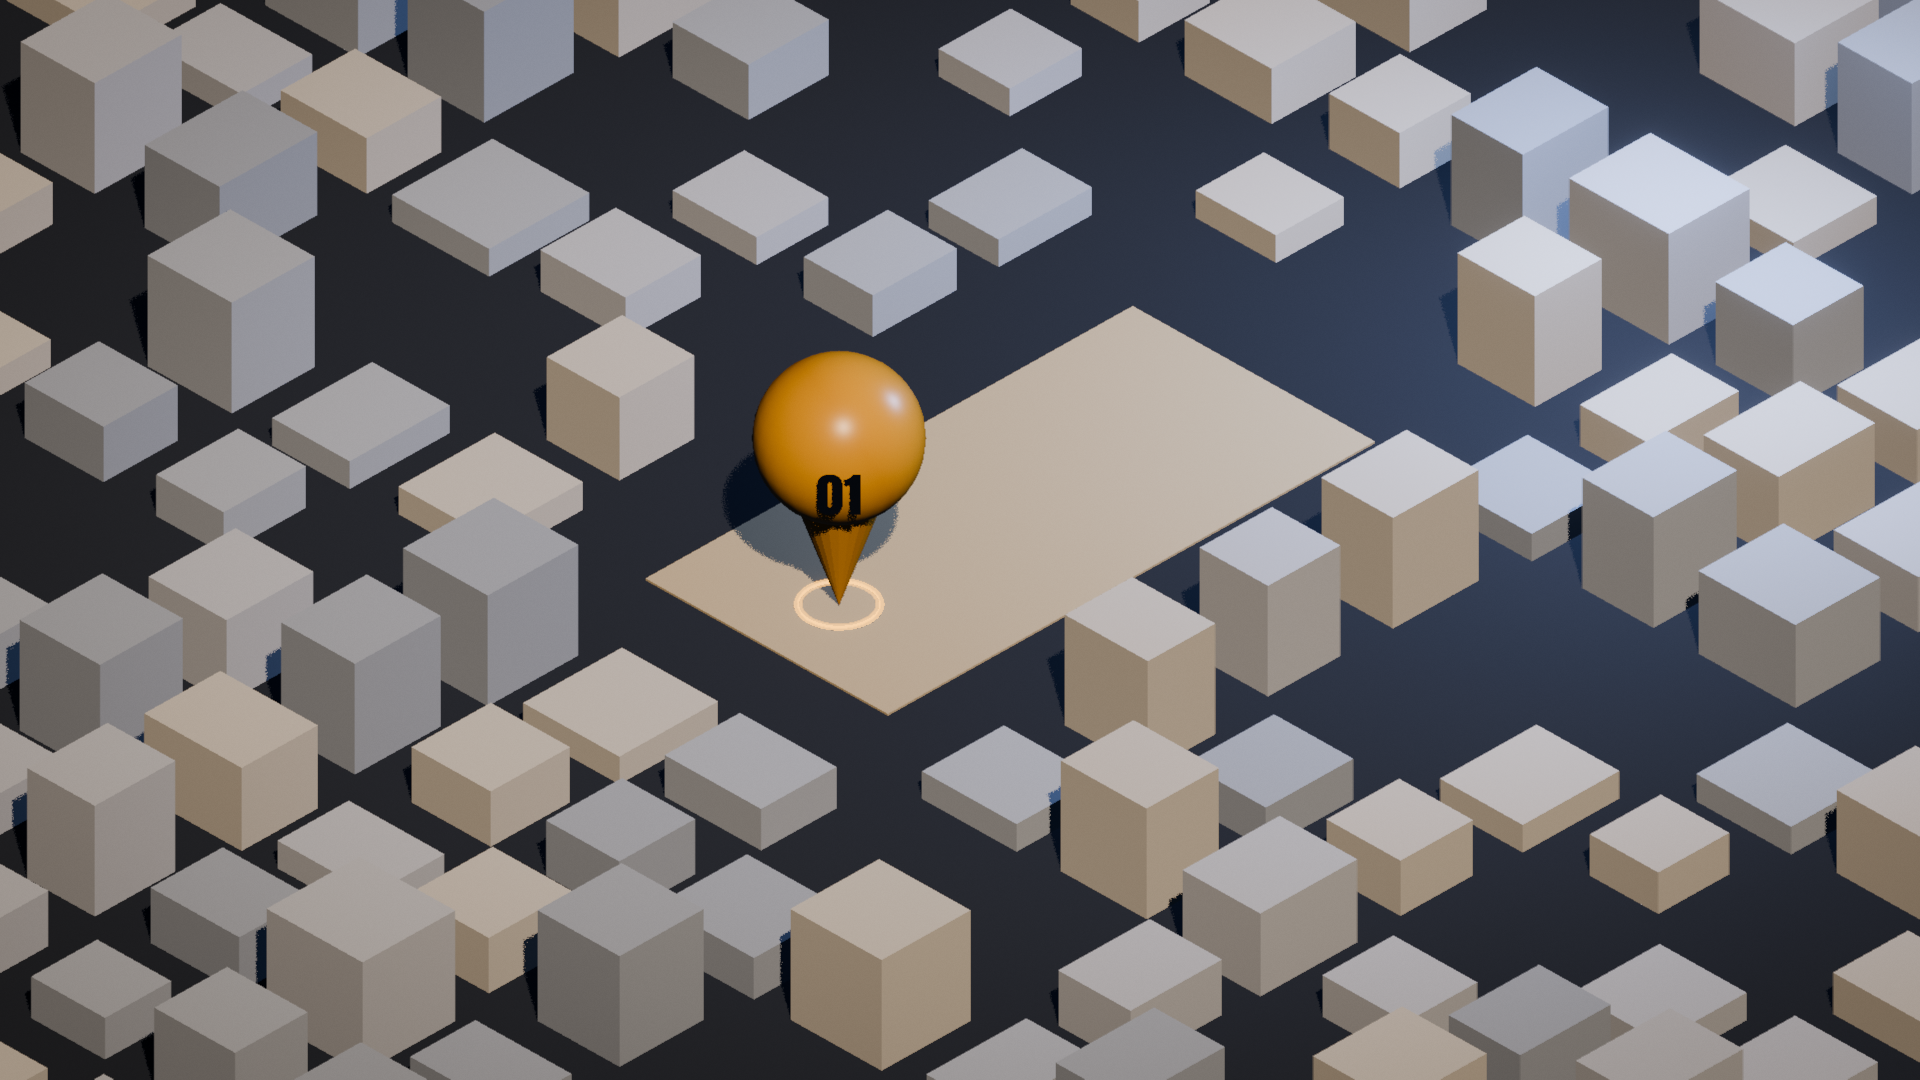
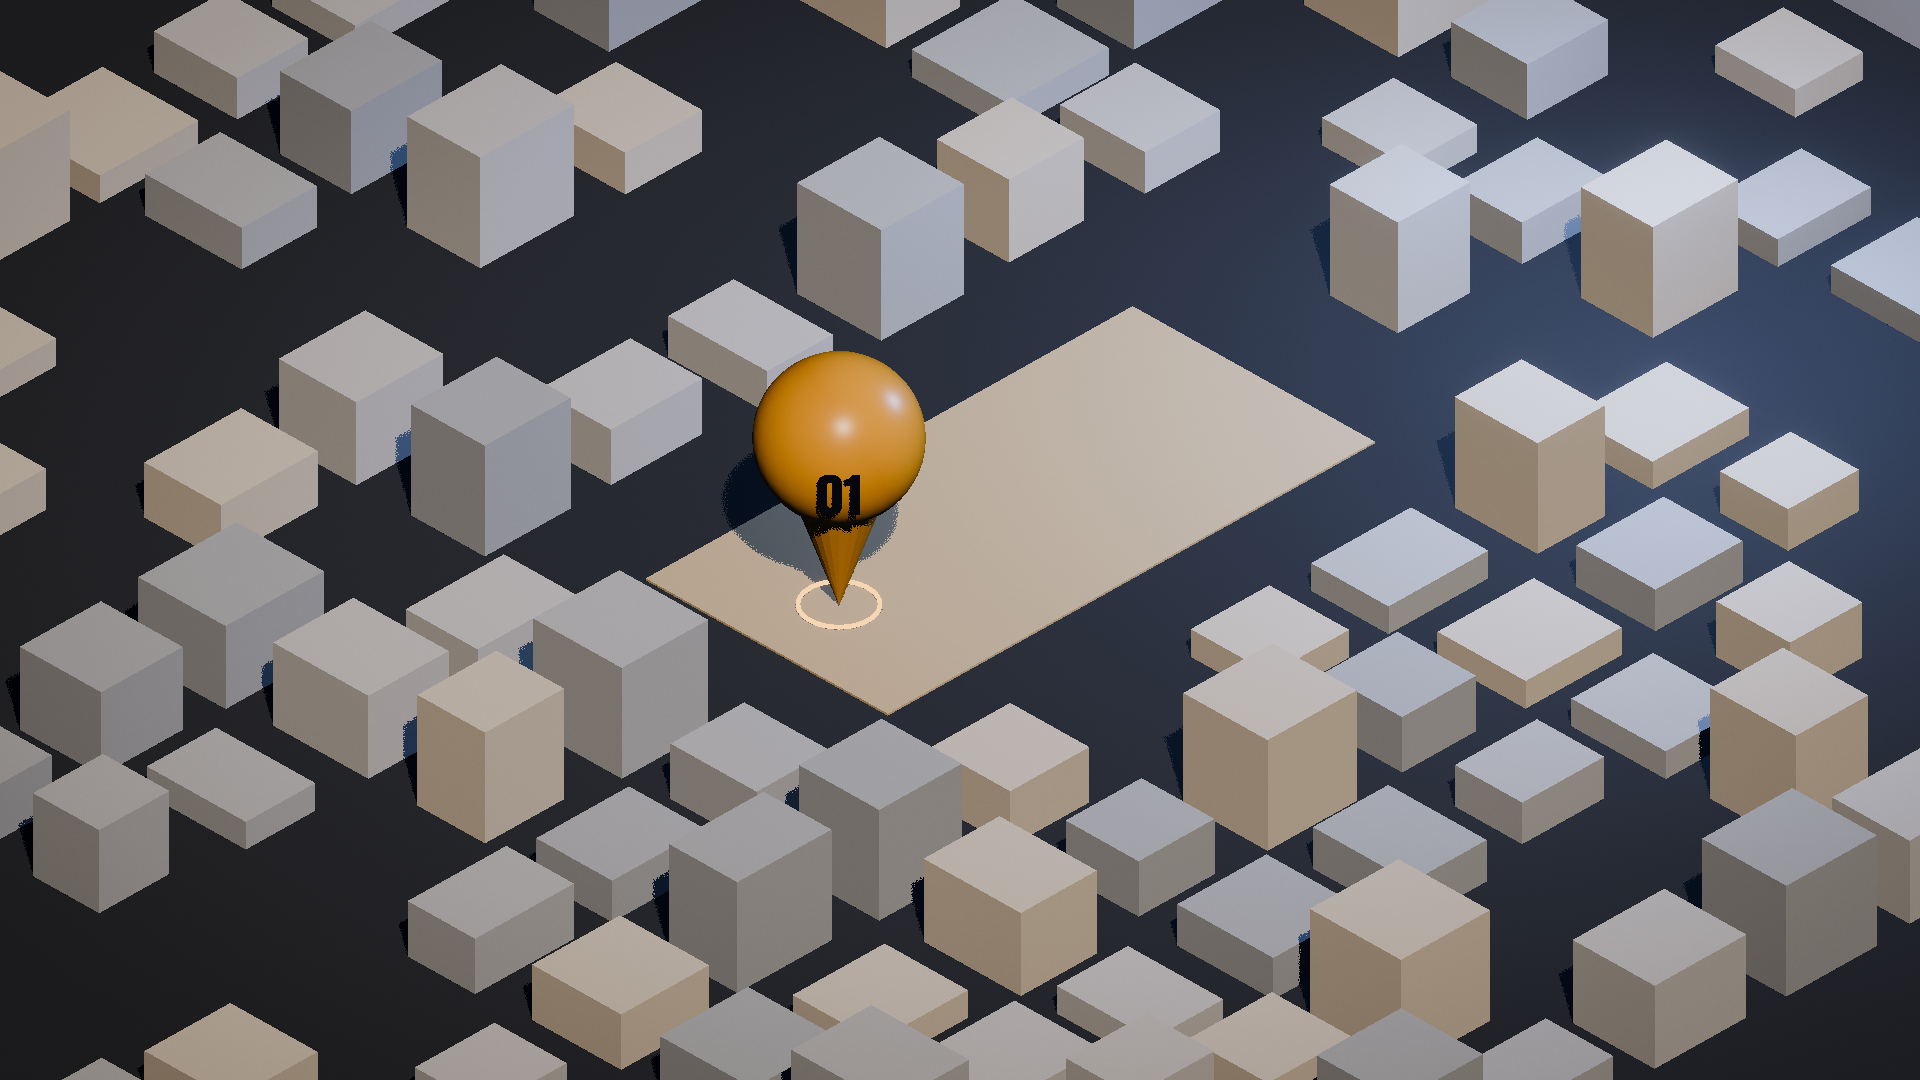
yaqout-villa: drop motion blur and trim city to fit the render time limit
Claude-Session: https://claude.ai/code/session_01UXaaCEC56JgZpFCmZh6i5u

diff --git a/shots/yaqout-villa/yaqout-villa.py b/shots/yaqout-villa/yaqout-villa.py
@@ -27,7 +27,7 @@ SAND, LOT, ASPHALT = "#D9C59C", "#CDBB97", "#2B313B"
 WHITE, WOOD, GLASS = "#F3EFE7", "#8A5A3A", "#24384F"
 ACCENT, GREEN, WATER, CLAY = "#E0A040", "#3E9E4F", "#38B2EE", "#B5562F"
 
-kit.setup(world="#1A2230", look="Medium High Contrast", motion_blur=0.25)
+kit.setup(world="#1A2230", look="Medium High Contrast", motion_blur=0)   # no blur: halves render time on this slow PC
 random.seed(4)
 
 
@@ -105,8 +105,8 @@ box("Lot", (16.5, 8.2, 0.06), (2.2, 0.0, 0.03), kit.matte(LOT, 0.9, "LotMat"))
 SITE = (-6.5, 11.0, -4.8, 4.8)                       # x0, x1, y0, y1 kept clear of city blocks
 block_mats = [kit.matte(c, 0.7, f"Block{i}") for i, c in enumerate(("#C9CDD3", "#B9C0C9", "#D8D3C8", "#AEB6C1"))]
 blocks = []
-for gx in range(-9, 10):
-    for gy in range(-7, 8):
+for gx in range(-8, 9):
+    for gy in range(-6, 7):
         x, y = gx * 4.4 + 2.2, gy * 4.4
         if SITE[0] - 1 < x < SITE[1] + 1 and SITE[2] - 1 < y < SITE[3] + 1:
             continue
